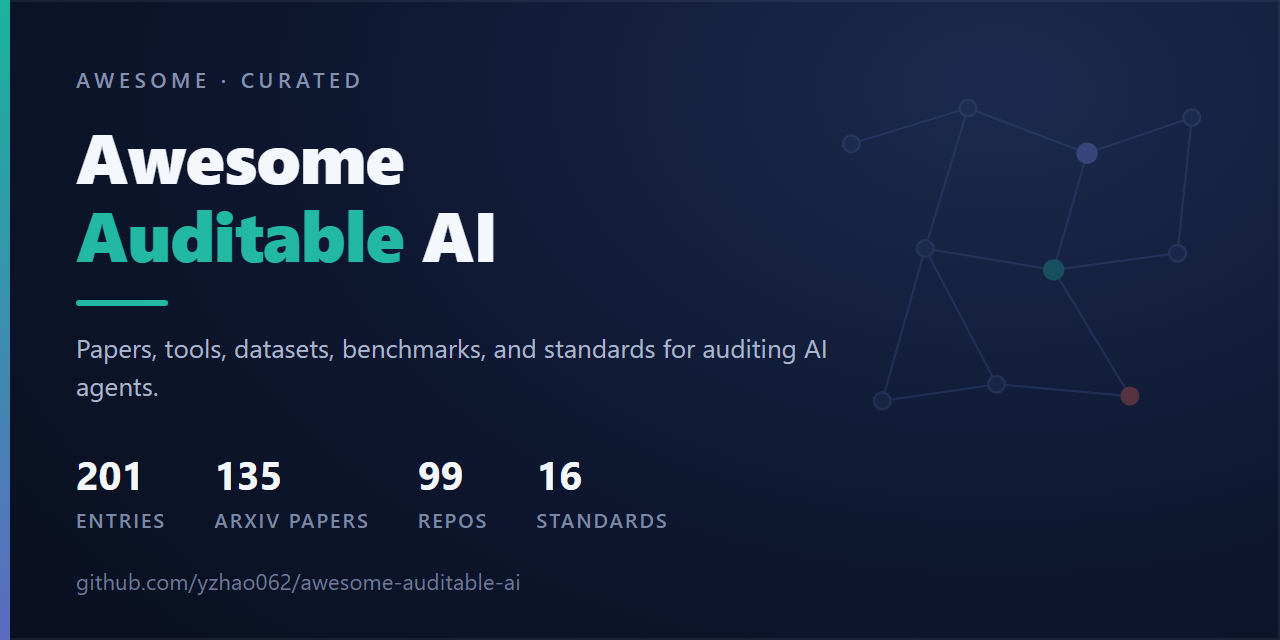
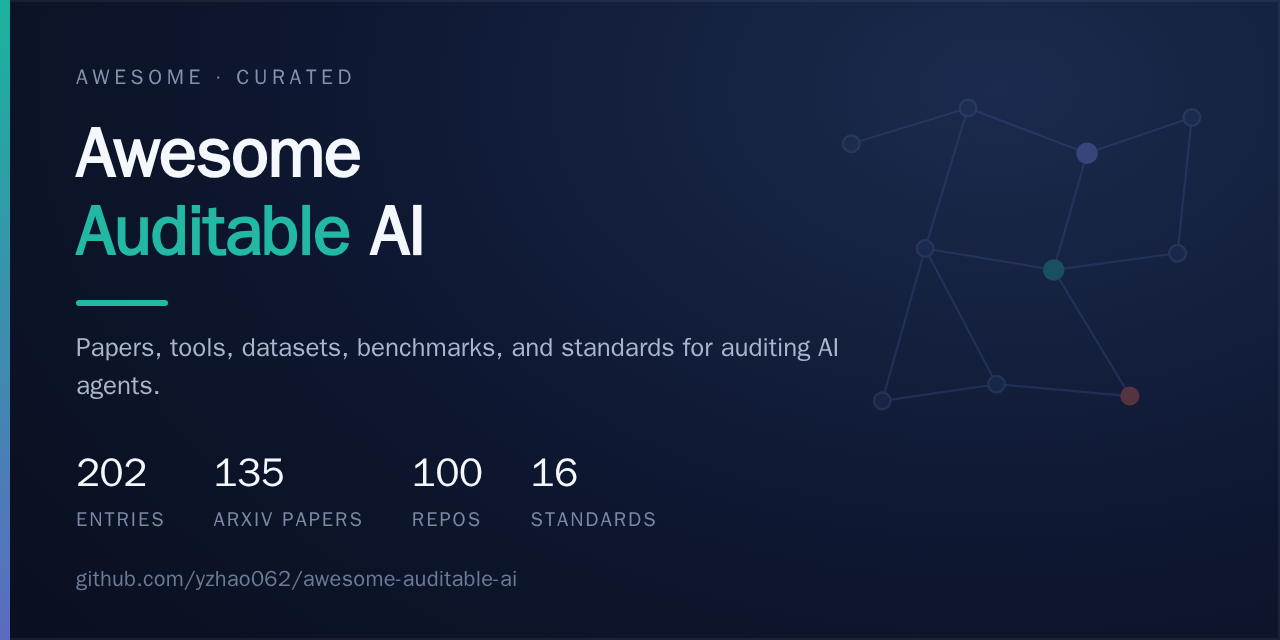
Decision-record tools: add Busabase
Self-hostable database and workspace for AI agents where scoped credentials can require data, document, schema, skill, and app mutations to arrive as ChangeRequests with exact diffs, submitter attribution, comments, review decisions, commits, and history before approved changes become canonical.

Submitted by @ranglang in #28. Merged as submitted, including the contributor's own recount of the README figures and social card, which was exact against the main it was cut from. Verified: canonical MIT; TypeScript 98%; the ChangeRequest gate in packages/busabase-core/src/logic/node-acl.ts and lifecycle in cr-lifecycle.ts; 57 tests pass. Kept in Decision-Record Tools beside MakerChecker, which records the same review-before-apply pattern.

List is now 202 entries, 100 repositories, 278 audited destinations.

Claude-Session: https://claude.ai/code/session_01SuhroXBCvdrX25MNV7B4cL

diff --git a/assets/social-card.html b/assets/social-card.html
@@ -71,9 +71,9 @@
     <div class="tag">Papers, tools, datasets, benchmarks, and standards for auditing AI agents.</div>
 
     <div class="stats">
-      <div class="stat"><div class="n">201</div><div class="l">Entries</div></div>
+      <div class="stat"><div class="n">202</div><div class="l">Entries</div></div>
       <div class="stat"><div class="n">135</div><div class="l">arXiv papers</div></div>
-      <div class="stat"><div class="n">99</div><div class="l">Repos</div></div>
+      <div class="stat"><div class="n">100</div><div class="l">Repos</div></div>
       <div class="stat"><div class="n">16</div><div class="l">Standards</div></div>
     </div>
   </div>

diff --git a/README.md b/README.md
@@ -22,9 +22,9 @@
 
 **Agent capability is rising much faster than agent reliability.** *Towards a Science of AI Agent Reliability* (ICML 2026) decomposes reliability into twelve metrics over fifteen models and finds that recent capability gains produced only small reliability gains. The cost of that gap shows up after a run rather than during it: in the original Who&When study (ICML 2025), the strongest of the three attribution methods released with the benchmark identified the responsible agent in 53.5% of 184 annotated failure tasks, drawn from logs of 127 LLM multi-agent systems, and the decisive error step in 14.2%. Later systems in this list, including AgenTracer (ICLR 2026), report gains on that benchmark. What narrows the gap is the quality of the record. TraceElephant (ACL 2026) reports that full execution traces raised step-level attribution accuracy from 17% to 30% in its static-agentic setting, a 76% relative gain over output-only traces.
 
-This list maps the work on that problem: **201 entries across nine sections**, covering 135 unique arXiv papers, 99 GitHub repositories, 16 standards, and two frameworks. Five papers are deliberately cross-listed, appearing once in a topical section and once as a dataset.
+This list maps the work on that problem: **202 entries across nine sections**, covering 135 unique arXiv papers, 100 GitHub repositories, 16 standards, and two frameworks. Five papers are deliberately cross-listed, appearing once in a topical section and once as a dataset.
 
-Two properties make the list checkable. Every paper row carries a venue field, so of the 137 table rows, 70 name a publication venue and 67 are marked Preprint; a reader can see the evidence level of a row without opening it. Naming a venue is not the same as peer review, and the field records what the venue is rather than grading it: a non-archival workshop and a main-conference track both appear as what they are. And the citation check goes past asking whether a link responds: each arXiv entry's title is compared with the title the arXiv page itself reports, and only an exact match counts. A near-identical title is not treated as agreement, because that is precisely what a link to the wrong paper in a series looks like; "Part I" against "Part II" scores 0.995 on similarity. The list cites 277 destinations it audits, among them 135 arXiv records and 132 entry-title labels a run checks against the arXiv page itself. Those are what the list contains; how many a given run completed is in its report, since a title is compared only when the page returns one. A full run on 2026-09-04 found no title or identifier disagreements. It names every destination that refuses automated clients rather than quietly counting it as passing. An earlier run, on 2026-08-23, is what caught a dataset repository going 404 three days after it last resolved. The four destinations it does not audit are this repository's own badges and the pages behind them, and the report names those too.
+Two properties make the list checkable. Every paper row carries a venue field, so of the 137 table rows, 70 name a publication venue and 67 are marked Preprint; a reader can see the evidence level of a row without opening it. Naming a venue is not the same as peer review, and the field records what the venue is rather than grading it: a non-archival workshop and a main-conference track both appear as what they are. And the citation check goes past asking whether a link responds: each arXiv entry's title is compared with the title the arXiv page itself reports, and only an exact match counts. A near-identical title is not treated as agreement, because that is precisely what a link to the wrong paper in a series looks like; "Part I" against "Part II" scores 0.995 on similarity. The list cites 278 destinations it audits, among them 135 arXiv records and 132 entry-title labels a run checks against the arXiv page itself. Those are what the list contains; how many a given run completed is in its report, since a title is compared only when the page returns one. A full run on 2026-09-04 found no title or identifier disagreements. It names every destination that refuses automated clients rather than quietly counting it as passing. An earlier run, on 2026-08-23, is what caught a dataset repository going 404 three days after it last resolved. The four destinations it does not audit are this repository's own badges and the pages behind them, and the report names those too.
 
 Regenerate the report with [`tools/check_links.py`](tools/check_links.py), read the result in [`LINK-AUDIT.md`](LINK-AUDIT.md), count the list with [`tools/inventory.py`](tools/inventory.py), and write every figure above back into this file with [`tools/recount.py`](tools/recount.py), which needs no network and is what keeps these numbers from drifting after a merge. The ways this audit could report a false pass are kept as tests in [`tools/test_check_links.py`](tools/test_check_links.py), which runs on every pull request along with the audit itself.
 
@@ -332,6 +332,8 @@ Every component above is also listed in the topical section it belongs to, under
 **\[Python\] Proofline** ([ceodaradigu/proofline-agent](https://github.com/ceodaradigu/proofline-agent)): verification-first agent that turns task contracts into deterministic SHA-256 proof packets, rejects missing, stale, or contradictory evidence, and gates external actions behind human approval. MIT-licensed, 2026-present.
 
 **\[Rust\] SEMAPRAX Agent Runtime** ([wavect/semaprax](https://github.com/wavect/semaprax)): bounded agent loop with a caller-injected host that emits canonical Trace and Evidence documents for a run and checks them by internal replay before returning them. It is reached through the project's Rust API, so it does not attach to an agent written in another language, and the surrounding language project is pre-alpha. Apache-2.0, 2026-present.
+
+**\[TypeScript\] Busabase** ([busabase/busabase](https://github.com/busabase/busabase)): self-hostable database and workspace for AI agents where scoped credentials can require data, document, schema, skill, and app mutations to arrive as ChangeRequests with exact diffs, submitter attribution, comments, review decisions, commits, and history before approved changes become canonical. MIT-licensed, 2026-present.
 
 ---
 
